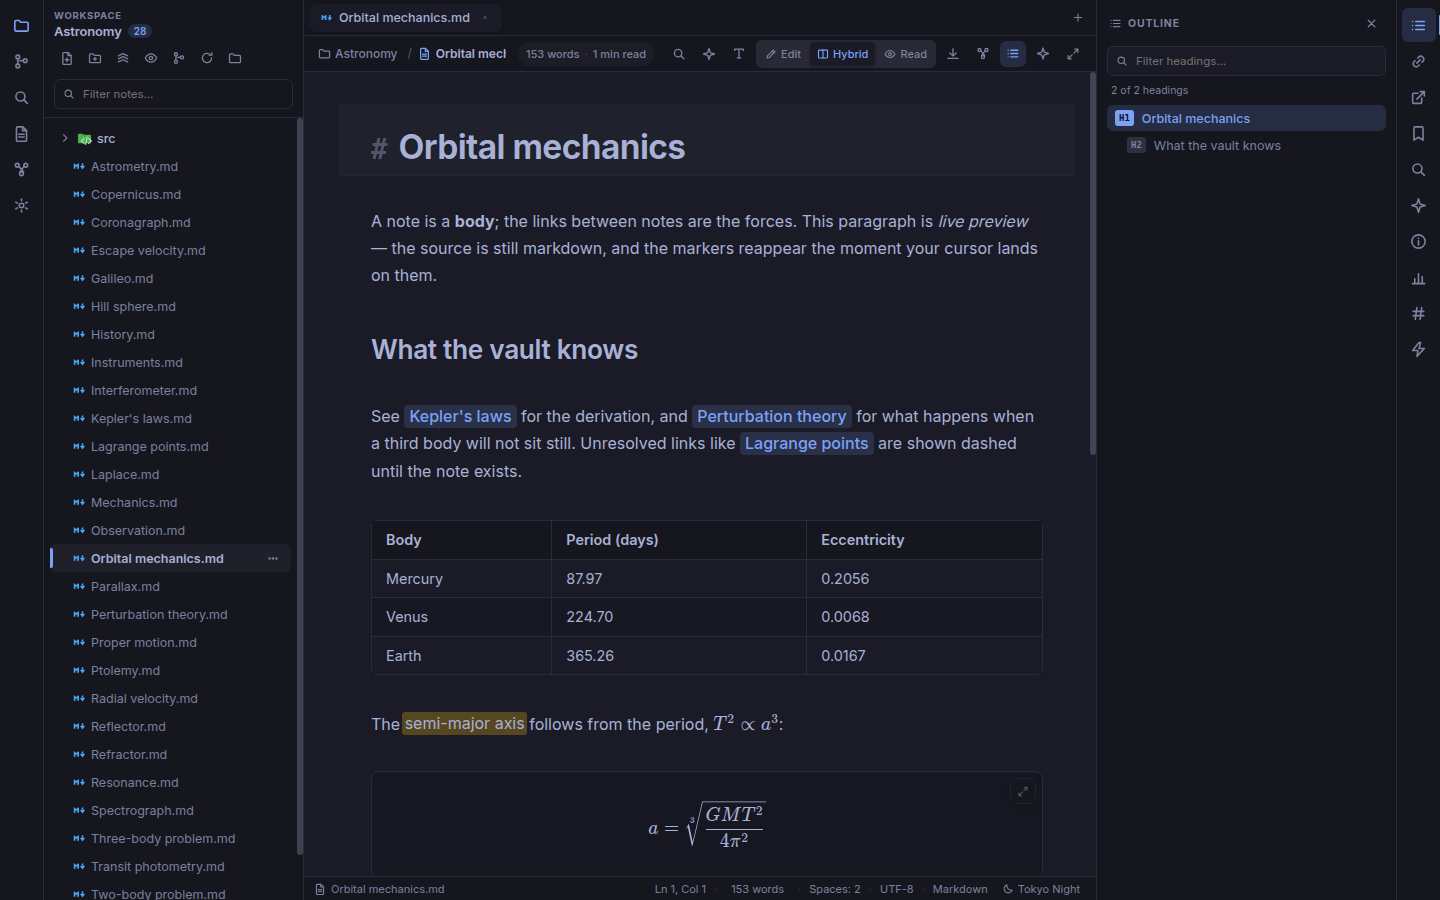
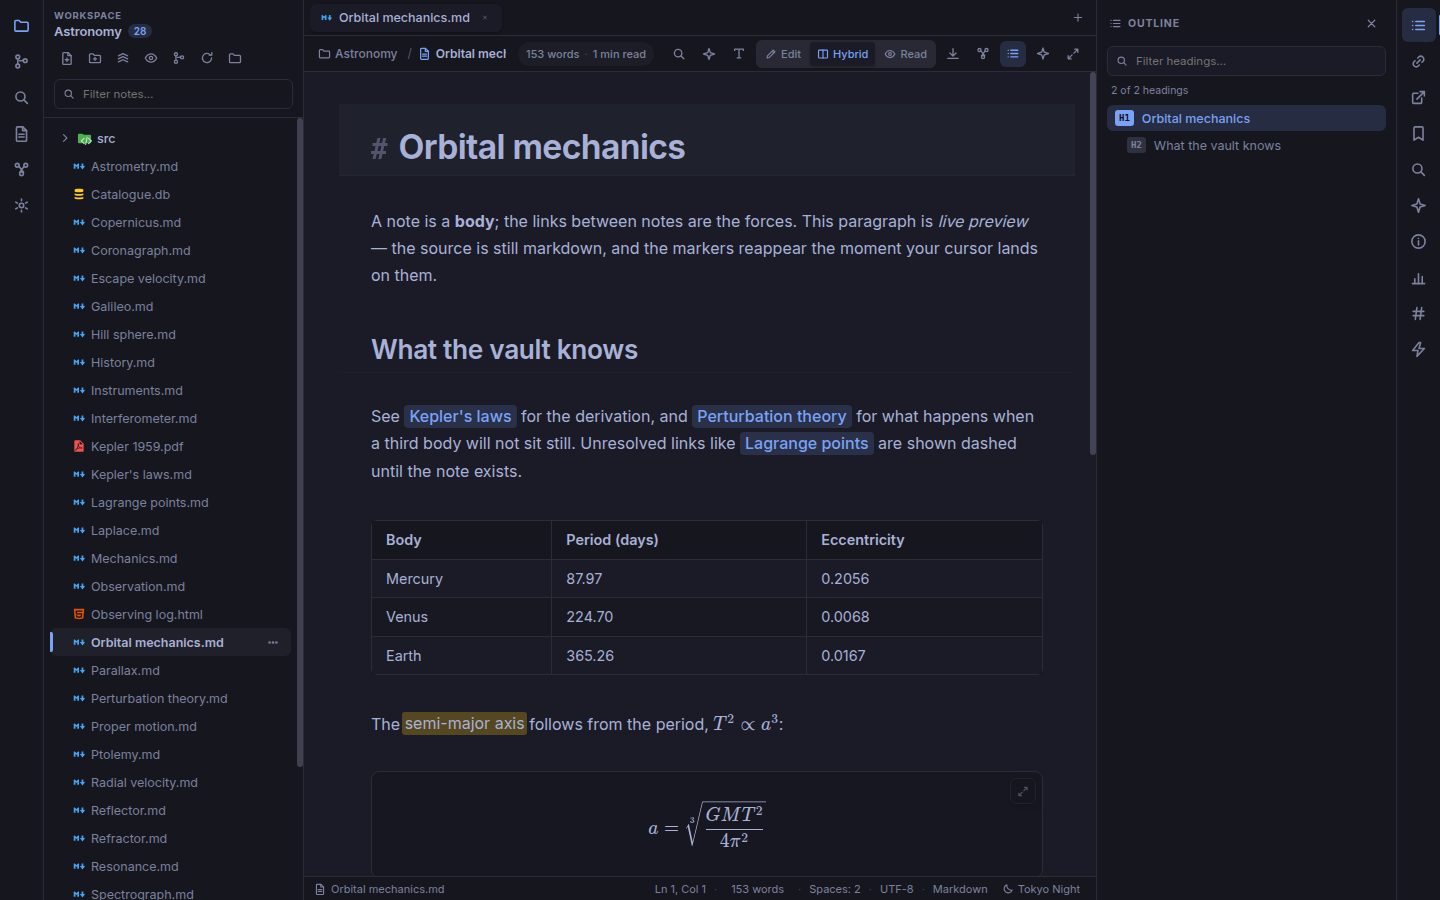
docs: show the surfaces the README only described
Four pictures for a dozen features. The PDF reader has a page of
documentation to itself and had never been shown; the CSV grid, the
database viewer, the HTML reader and Reading mode were all described in
prose and left to the imagination.

Five more, each beside the paragraph it belongs to. The fixtures came
with them: a short paper with an outline, a table of transit depths, a
two-table catalogue, and an observing log written the way a real page is
written, with mermaid and MathJax loaded from a CDN and one remote
picture. That last one earns its place twice over, because the bar above
it is the feature: "1 diagram drawn · 2 equations typeset", next to the
offers to run the page's own scripts or fetch the one thing it wants
from the internet, neither of which has happened.

Three things went wrong on the way, all of them the pictures telling on
the app or on the generator.

The PDF's own sidebar is open by default, so the click meant to reveal
the pages and the outline shut them. The app's outline panel, on the
right, has nothing to say about a PDF, a sheet, a database or a rendered
page, and spent a quarter of each picture saying so; it is closed for
all four. And the sheet and the database began as one shot in two panes,
which made both too narrow to read the columns that are the point of
them, so they are a picture each.

The generator also leaked state between shots, the same way the zoom
spec did: the diff shot left the sidebar on source control, so the next
[…]

Changed region(s): [[0.0625, 0.1867, 0.1562, 1.0], [0.1875, 0.8711, 0.2188, 0.9333]]

diff --git a/scripts/screenshots/shots.spec.ts b/scripts/screenshots/shots.spec.ts
@@ -5,6 +5,7 @@ import { join } from 'node:path'
 import { test, expect, type Page } from '@playwright/test'
 import type { ElectronApplication } from 'playwright'
 import { closeCleanly, launchApp, openVault } from '../../e2e/helpers'
+import { makePdf } from '../../src/main/services/__fixtures__/make-pdf'
 
 /**
  * The README screenshots.
@@ -101,6 +102,124 @@ const setTheme = async (page: Page): Promise<void> => {
   await page.waitForTimeout(500)
 }
 
+/** A sheet, for the grid. Real columns, so the picture is worth looking at. */
+const CSV = `planet,period_days,depth_ppm,radius_earth,discovered
+Kepler-10b,0.8375,152,1.47,2011
+Kepler-16b,228.776,1690,8.45,2011
+Kepler-22b,289.862,492,2.38,2011
+Kepler-186f,129.944,410,1.17,2014
+Kepler-442b,112.305,570,1.34,2015
+Kepler-452b,384.843,489,1.63,2015
+TRAPPIST-1e,6.099,519,0.92,2017
+TRAPPIST-1f,9.207,633,1.05,2017
+Proxima b,11.186,,1.07,2016
+`
+
+/** A page the reader can show off on: a diagram it draws, and maths it typesets. */
+const PAGE = `<!doctype html>
+<html lang="en">
+  <head>
+    <meta charset="utf-8" />
+    <title>Observing log</title>
+    <script src="https://cdn.jsdelivr.net/npm/mermaid/dist/mermaid.min.js"></script>
+    <script src="https://cdn.jsdelivr.net/npm/mathjax/es5/tex-mml-chtml.js"></script>
+    <style>
+      body { font: 16px/1.6 system-ui, sans-serif; max-width: 46rem; margin: 2rem auto; padding: 0 1rem; color: #1a1a1a; }
+      h1 { font-size: 1.7rem; margin-bottom: 0.2rem; }
+      p.lede { color: #555; margin-top: 0; }
+      img { border-radius: 6px; }
+    </style>
+  </head>
+  <body>
+    <h1>Observing log, 14 March</h1>
+    <p class="lede">Transit of Kepler-16b, recorded from the roof.</p>
+    <p>
+      Depth follows from the radius ratio, \\(\\delta = (R_p / R_\\star)^2\\), so a
+      body an eleventh of its star's width takes about a percent of the light:
+    </p>
+    <p>$$\\delta = \\left(\\frac{R_p}{R_\\star}\\right)^2 \\approx 8.3 \\times 10^{-3}$$</p>
+    <h2>How a night goes</h2>
+    <pre class="mermaid">flowchart LR
+  Plan[Pick a target] --> Align[Align the mount]
+  Align --> Capture[Capture frames]
+  Capture --> Reduce[Reduce and stack]
+  Reduce --> Fit[Fit the light curve]
+  Fit --> Plan
+</pre>
+    <p><img src="https://example.invalid/finder-chart.png" alt="finder chart" width="320" /></p>
+    <script>
+      document.body.dataset.ran = 'yes'
+    </script>
+  </body>
+</html>
+`
+
+/** A short paper, for the PDF reader: three pages and an outline to match. */
+const PDF_PAGES = [
+  [
+    'A NEW DETERMINATION OF THE ORBITAL ELEMENTS',
+    '',
+    'J. Kepler, Observatory of Prague',
+    '',
+    'ABSTRACT',
+    '',
+    'The orbit of Mars is fitted against ten years of naked-eye',
+    'positions recorded by Tycho Brahe. A circular orbit leaves a',
+    'residual of eight arcminutes, which the observations do not',
+    'permit. An ellipse with the Sun at one focus removes it.'
+  ],
+  [
+    'THE THREE LAWS',
+    '',
+    'I. The orbit of a planet is an ellipse with the Sun at one',
+    '   of the two foci.',
+    '',
+    'II. A line joining a planet and the Sun sweeps out equal',
+    '    areas during equal intervals of time.',
+    '',
+    'III. The square of the orbital period is proportional to the',
+    '     cube of the semi-major axis.'
+  ],
+  [
+    'METHOD',
+    '',
+    'Positions were reduced to the ecliptic and corrected for',
+    'parallax. The residual of eight arcminutes is larger than',
+    'Tycho ever erred, and it is on that refusal to discard an',
+    'inconvenient number that the whole of the above rests.'
+  ]
+]
+
+/** A small database, for the table viewer. */
+function makeCatalogue(path: string): void {
+  // eslint-disable-next-line @typescript-eslint/no-require-imports
+  const { DatabaseSync } = require('node:sqlite') as {
+    DatabaseSync: new (p: string) => { exec(sql: string): void; close(): void }
+  }
+  const db = new DatabaseSync(path)
+  db.exec(`
+    CREATE TABLE observations (
+      id INTEGER PRIMARY KEY, target TEXT NOT NULL, night TEXT, frames INTEGER, seeing REAL
+    );
+    INSERT INTO observations (target, night, frames, seeing) VALUES
+      ('Kepler-16b', '2026-03-14', 1840, 1.6),
+      ('Kepler-22b', '2026-03-15', 1204, 2.1),
+      ('TRAPPIST-1e', '2026-03-19', 2610, 1.2),
+      ('TRAPPIST-1f', '2026-03-20', 2455, 1.4),
+      ('Proxima b', '2026-04-02', 980, 2.8),
+      ('Kepler-452b', '2026-04-11', 1733, 1.9);
+    CREATE TABLE targets (name TEXT PRIMARY KEY, constellation TEXT, magnitude REAL);
+    INSERT INTO targets VALUES ('Kepler-16b', 'Cygnus', 11.7), ('Proxima b', 'Centaurus', 11.1);
+  `)
+  db.close()
+}
+
+const command = async (commandId: string): Promise<void> => {
+  await app.evaluate(({ BrowserWindow }, id) => {
+    BrowserWindow.getAllWindows()[0]?.webContents.send('menu:command', { commandId: id })
+  }, commandId)
+}
+
 const run = (args: string[], cwd: string): void => {
   execFileSync('git', args, { cwd, stdio: 'ignore' })
 }
@@ -180,6 +299,20 @@ test.beforeAll(async () => {
     '# Spectrograph\n\nPart of [[Instruments]]. Used for [[Radial velocity]].\n'
   )
   writeFileSync(join(vault, 'src', 'notes.ts'), CODE)
+  writeFileSync(join(vault, 'Transit depths.csv'), CSV)
+  writeFileSync(join(vault, 'Observing log.html'), PAGE)
+  writeFileSync(
+    join(vault, 'Kepler 1959.pdf'),
+    makePdf({
+      pages: PDF_PAGES,
+      outline: [
+        { title: 'Abstract', page: 1 },
+        { title: 'The three laws', page: 2 },
+        { title: 'Method', page: 3 }
+      ]
+    })
+  )
+  makeCatalogue(join(vault, 'Catalogue.db'))
 
   run(['init'], vault)
   run(['config', 'user.email', 'shots@example.com'], vault)
@@ -274,6 +407,11 @@ test('diff and terminal', async () => {
     })
   })
   await page.locator('.diff button[aria-label="Close"]').click()
+  // Source control replaces the file tree rather than sitting beside it, and
+  // `view.toggleGit` shows rather than toggles, so the sidebar has to be put
+  // back by name. Without this, every shot after this one has no tree to click.
+  await command('view.toggleFiles')
+  await expect(page.locator('.tree-row--file').first()).toBeVisible({ timeout: 15_000 })
 })
 
 test('graph', async () => {
@@ -298,4 +436,68 @@ test('graph', async () => {
       commandId: 'view.toggleGraph'
     })
   })
+})
+
+test('reading a note', async () => {
+  // The Hybrid shot above is the editor. This is the other end of the same
+  // note: fully rendered, with the diagram and the maths drawn out, which is
+  // what the three view modes are for.
+  await page.locator('.tree-row--file', { hasText: 'Orbital mechanics.md' }).click()
+  await page.locator('.header-viewmode__btn', { hasText: 'Read' }).click()
+  await page.waitForTimeout(2500)
+  await page
+    .locator('.editor-pane .cm-scroller, .reading__scroll')
+    .first()
+    .evaluate((el) => {
+      el.scrollTop = 620
+    })
+  await page.waitForTimeout(900)
+  await page.screenshot({ path: `${OUT}/reading.png` })
+  await page.locator('.header-viewmode__btn', { hasText: 'Hybrid' }).click()
+})
+
+test('a pdf', async () => {
+  // The outline panel is closed for this and everything below it. None of
+  // these surfaces is a note, so it has nothing to say about any of them, and
+  // "An outline is for text; this is a PDF" is a quarter of the picture spent
+  // on a sentence about the picture's own furniture.
+  await command('view.toggleOutline')
+  await page.locator('.tree-row--file', { hasText: 'Kepler 1959.pdf' }).click()
+  await expect(page.locator('.pdfv__count')).toHaveText('of 3', { timeout: 25_000 })
+  // The PDF's own sidebar, holding the pages and the outline, is open already:
+  // clicking the toggle here shut it and took the thumbnails out of the shot.
+  await page.waitForTimeout(2000)
+  await page.screenshot({ path: `${OUT}/pdf.png` })
+})
+
+test('a sheet', async () => {
+  await page.locator('.tree-row--file', { hasText: 'Transit depths.csv' }).click()
+  await expect(page.locator('.csv__table')).toBeVisible({ timeout: 20_000 })
+  await page.waitForTimeout(1200)
+  await page.screenshot({ path: `${OUT}/csv.png` })
+})
+
+test('a database', async () => {
+  // Its own picture rather than a second pane beside the sheet. Two grids in
+  // one window is two grids too narrow to read, and the point of each is the
+  // columns.
+  await page.locator('.tree-row--file', { hasText: 'Catalogue.db' }).click()
+  await expect(page.locator('.db__grid')).toBeVisible({ timeout: 25_000 })
+  await page.waitForTimeout(1200)
+  await page.screenshot({ path: `${OUT}/database.png` })
+})
+
+test('an html page, read', async () => {
+  // The bar is half the point: it says what the reader drew for the page and
+  // what it refused to fetch on its behalf.
+  await page.locator('.tree-row--file', { hasText: 'Observing log.html' }).click()
+  // The tab, not the text: CodeMirror only renders the lines in view, so the
+  // title of a page is off screen the moment the file is longer than the pane.
+  await expect(page.locator('.tab--active')).toContainText('Observing log.html', {
+    timeout: 20_000
+  })
+  await page.locator('.header-viewmode__btn', { hasText: 'Read' }).click()
+  await expect(page.locator('.htmlv__frame')).toBeVisible({ timeout: 20_000 })
+  await page.waitForTimeout(2500)
+  await page.screenshot({ path: `${OUT}/html.png` })
 })

diff --git a/README.md b/README.md
@@ -51,6 +51,8 @@ looking at the table rather than a change to the file. `$inline$` and `$$block$$
 and diagrams open full screen. A long code fence scrolls inside its own card,
 leaving the rest of the document where it was.
 
+![Reading mode: a displayed equation, a mermaid flowchart and a TypeScript code card, with the outline panel listing the note's headings](docs/screenshots/reading.png)
+
 **Raw HTML renders too**, which markdown files are full of: the centred title,
 the row of badges and the `<details>` fold that every README opens with. It goes
 through an allow-list, so a note can lay itself out and cannot run anything. A
@@ -215,11 +217,19 @@ It is not a browser and does not pretend to be, so there is a **Browser**
 button that hands the file to yours. What you lose on the way there is listed
 in [SECURITY.md](SECURITY.md).
 
+![An HTML file being read: the bar says one diagram drawn and two equations typeset, and offers to run the page's scripts or load its one remote item](docs/screenshots/html.png)
+
 **Tables and databases.** A `.csv` opens as a grid you can sort, filter, resize
 and rearrange by dragging, edited in place. Sorting and filtering never touch
 the file: they choose an order to draw in, and an edit goes back to the row it
-really came from. A `.db` or `.sqlite` opens as its tables, with row counts, a
-page at a time, sortable, and a box for a query. It is strictly read-only, twice
+really came from.
+
+![A CSV open as a grid of ten rows and five columns, with a filter box and buttons to add a row or a column](docs/screenshots/csv.png)
+A `.db` or `.sqlite` opens as its tables, with row counts, a
+page at a time, sortable, and a box for a query.
+
+![A SQLite file open as its tables: two of them listed with row counts, one shown as a grid, marked read-only](docs/screenshots/database.png)
+It is strictly read-only, twice
 over: the file is opened read-only and anything that is not a question is
 refused before it reaches the database.
 
@@ -232,6 +242,8 @@ runs over embeddings computed on your own machine. API keys stay in the main
 process and never reach the renderer.
 
 ## PDFs, read and edited
+
+![A PDF open as a document: its own sidebar showing the outline, with the page toolbar above and the first page rendered](docs/screenshots/pdf.png)
 
 A PDF opens as a document rather than as bytes: pages, selectable text, find,
 an outline, thumbnails. Vault search reads _inside_ them, `[[paper.pdf#page=12]]`
